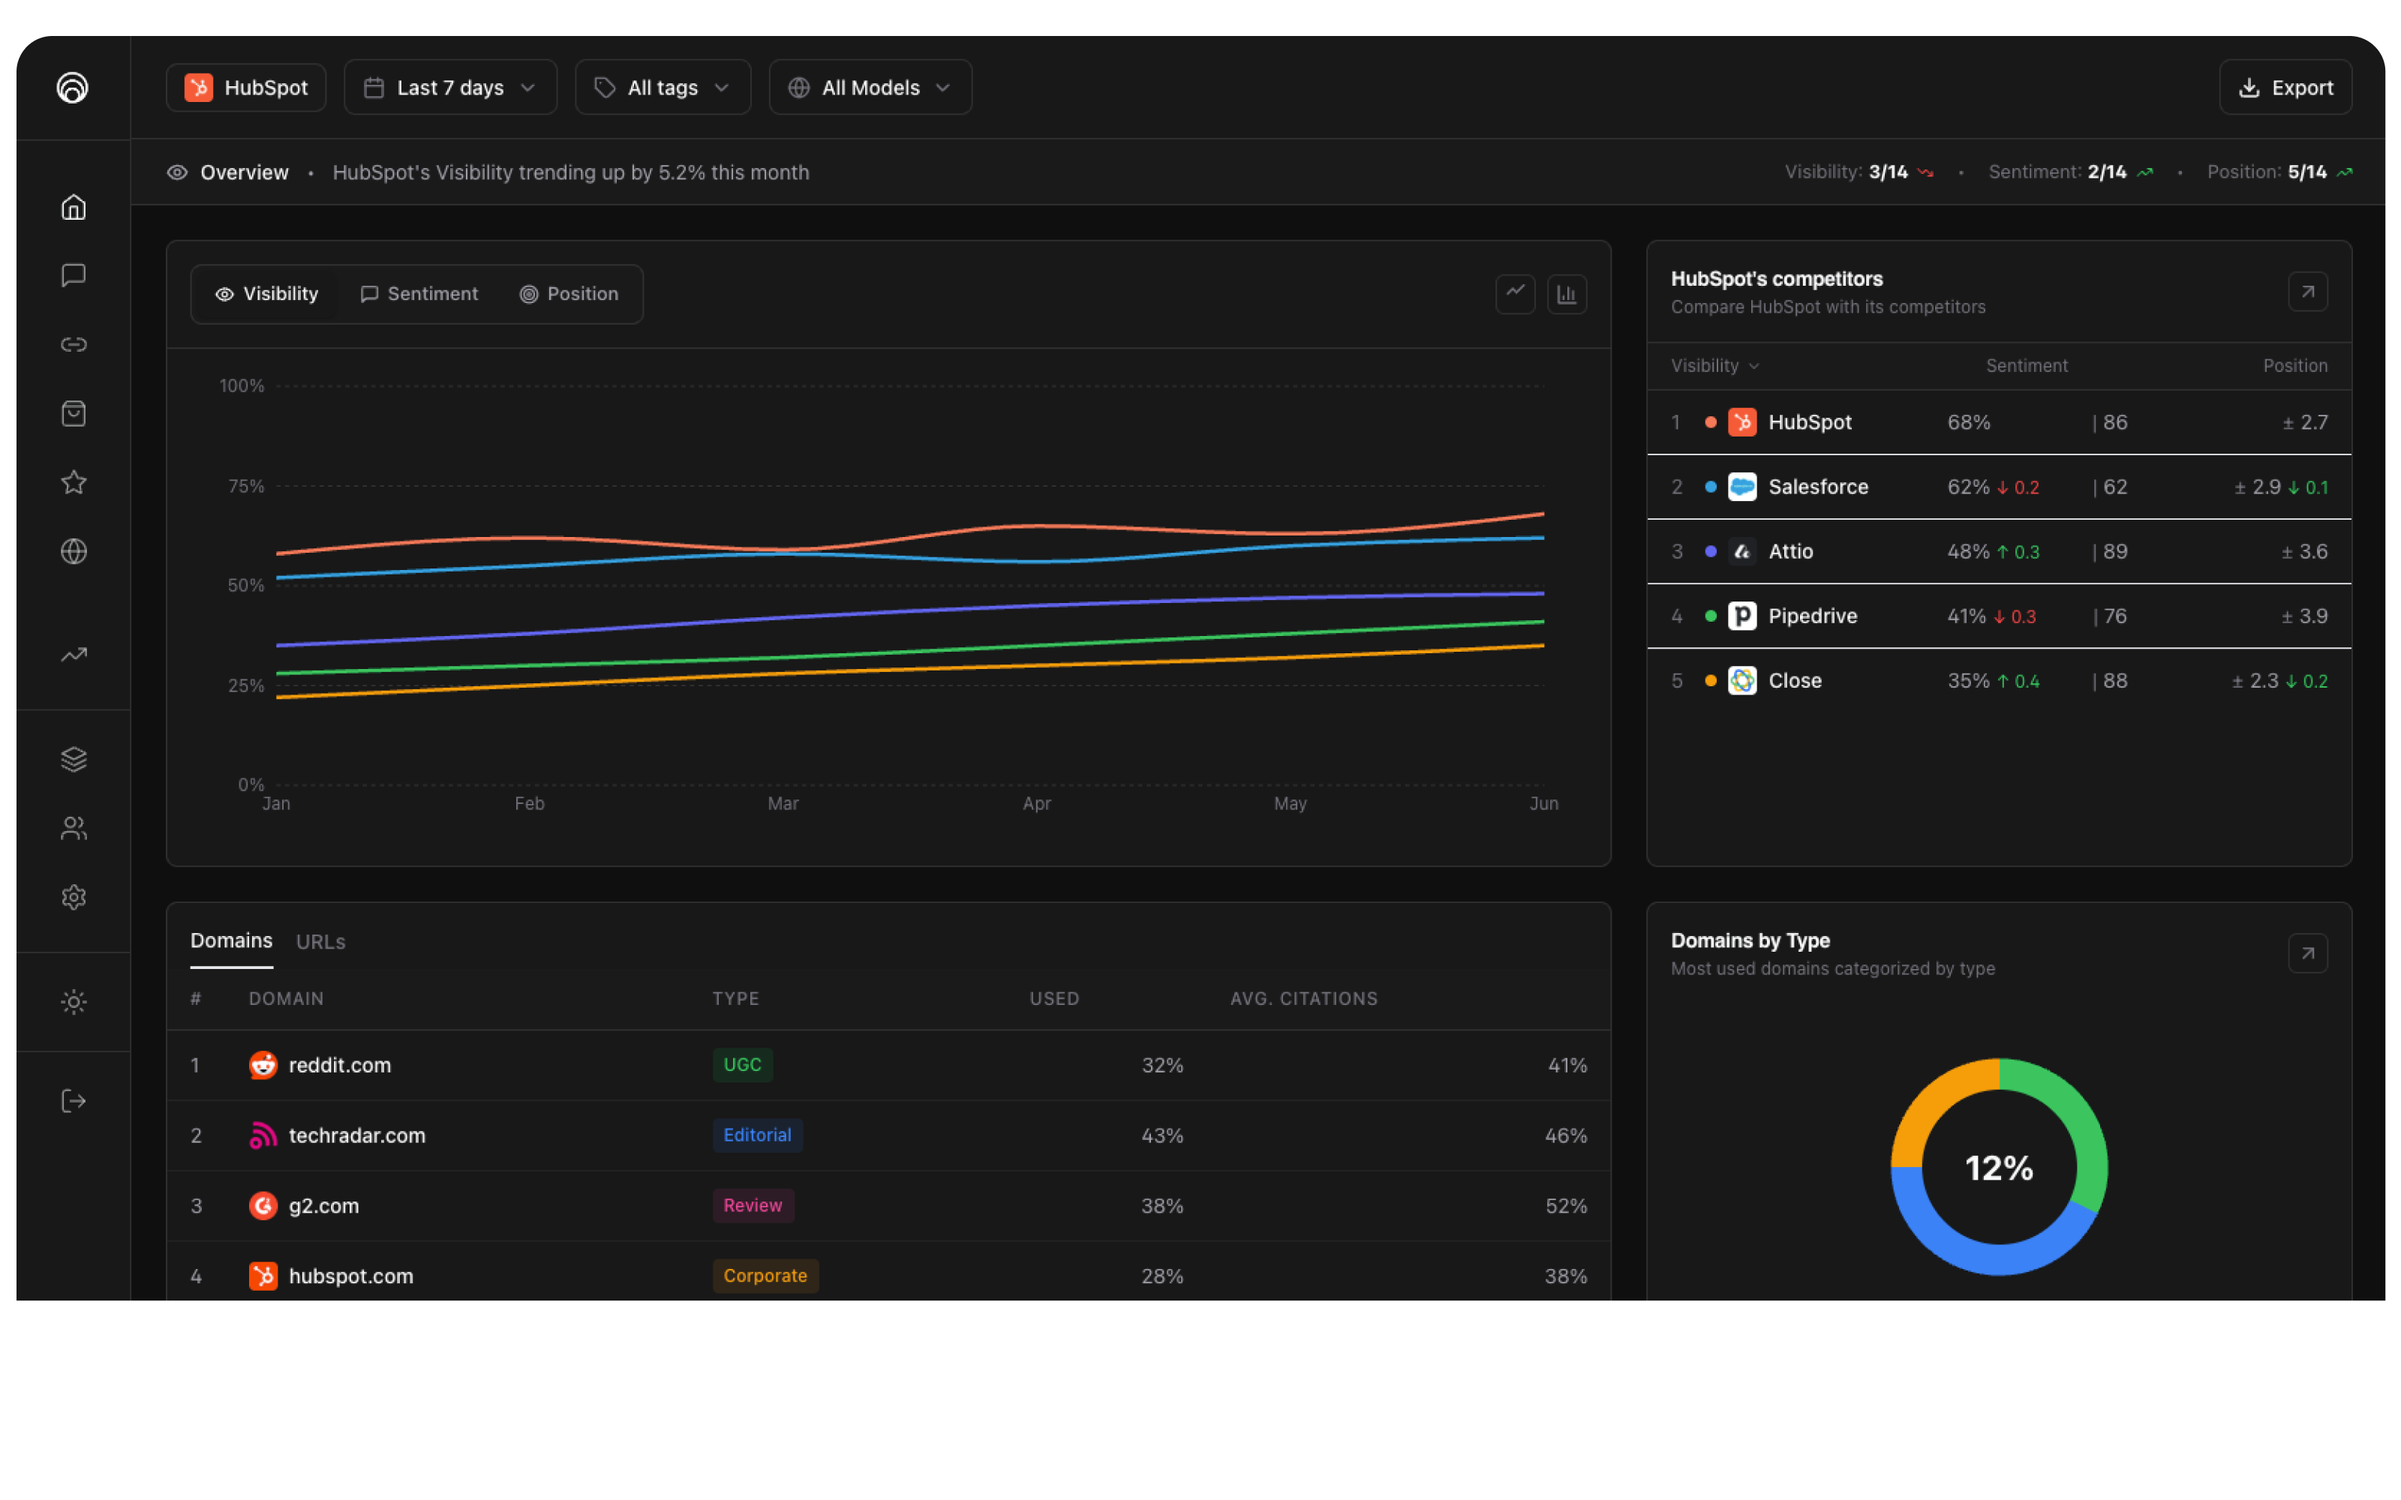
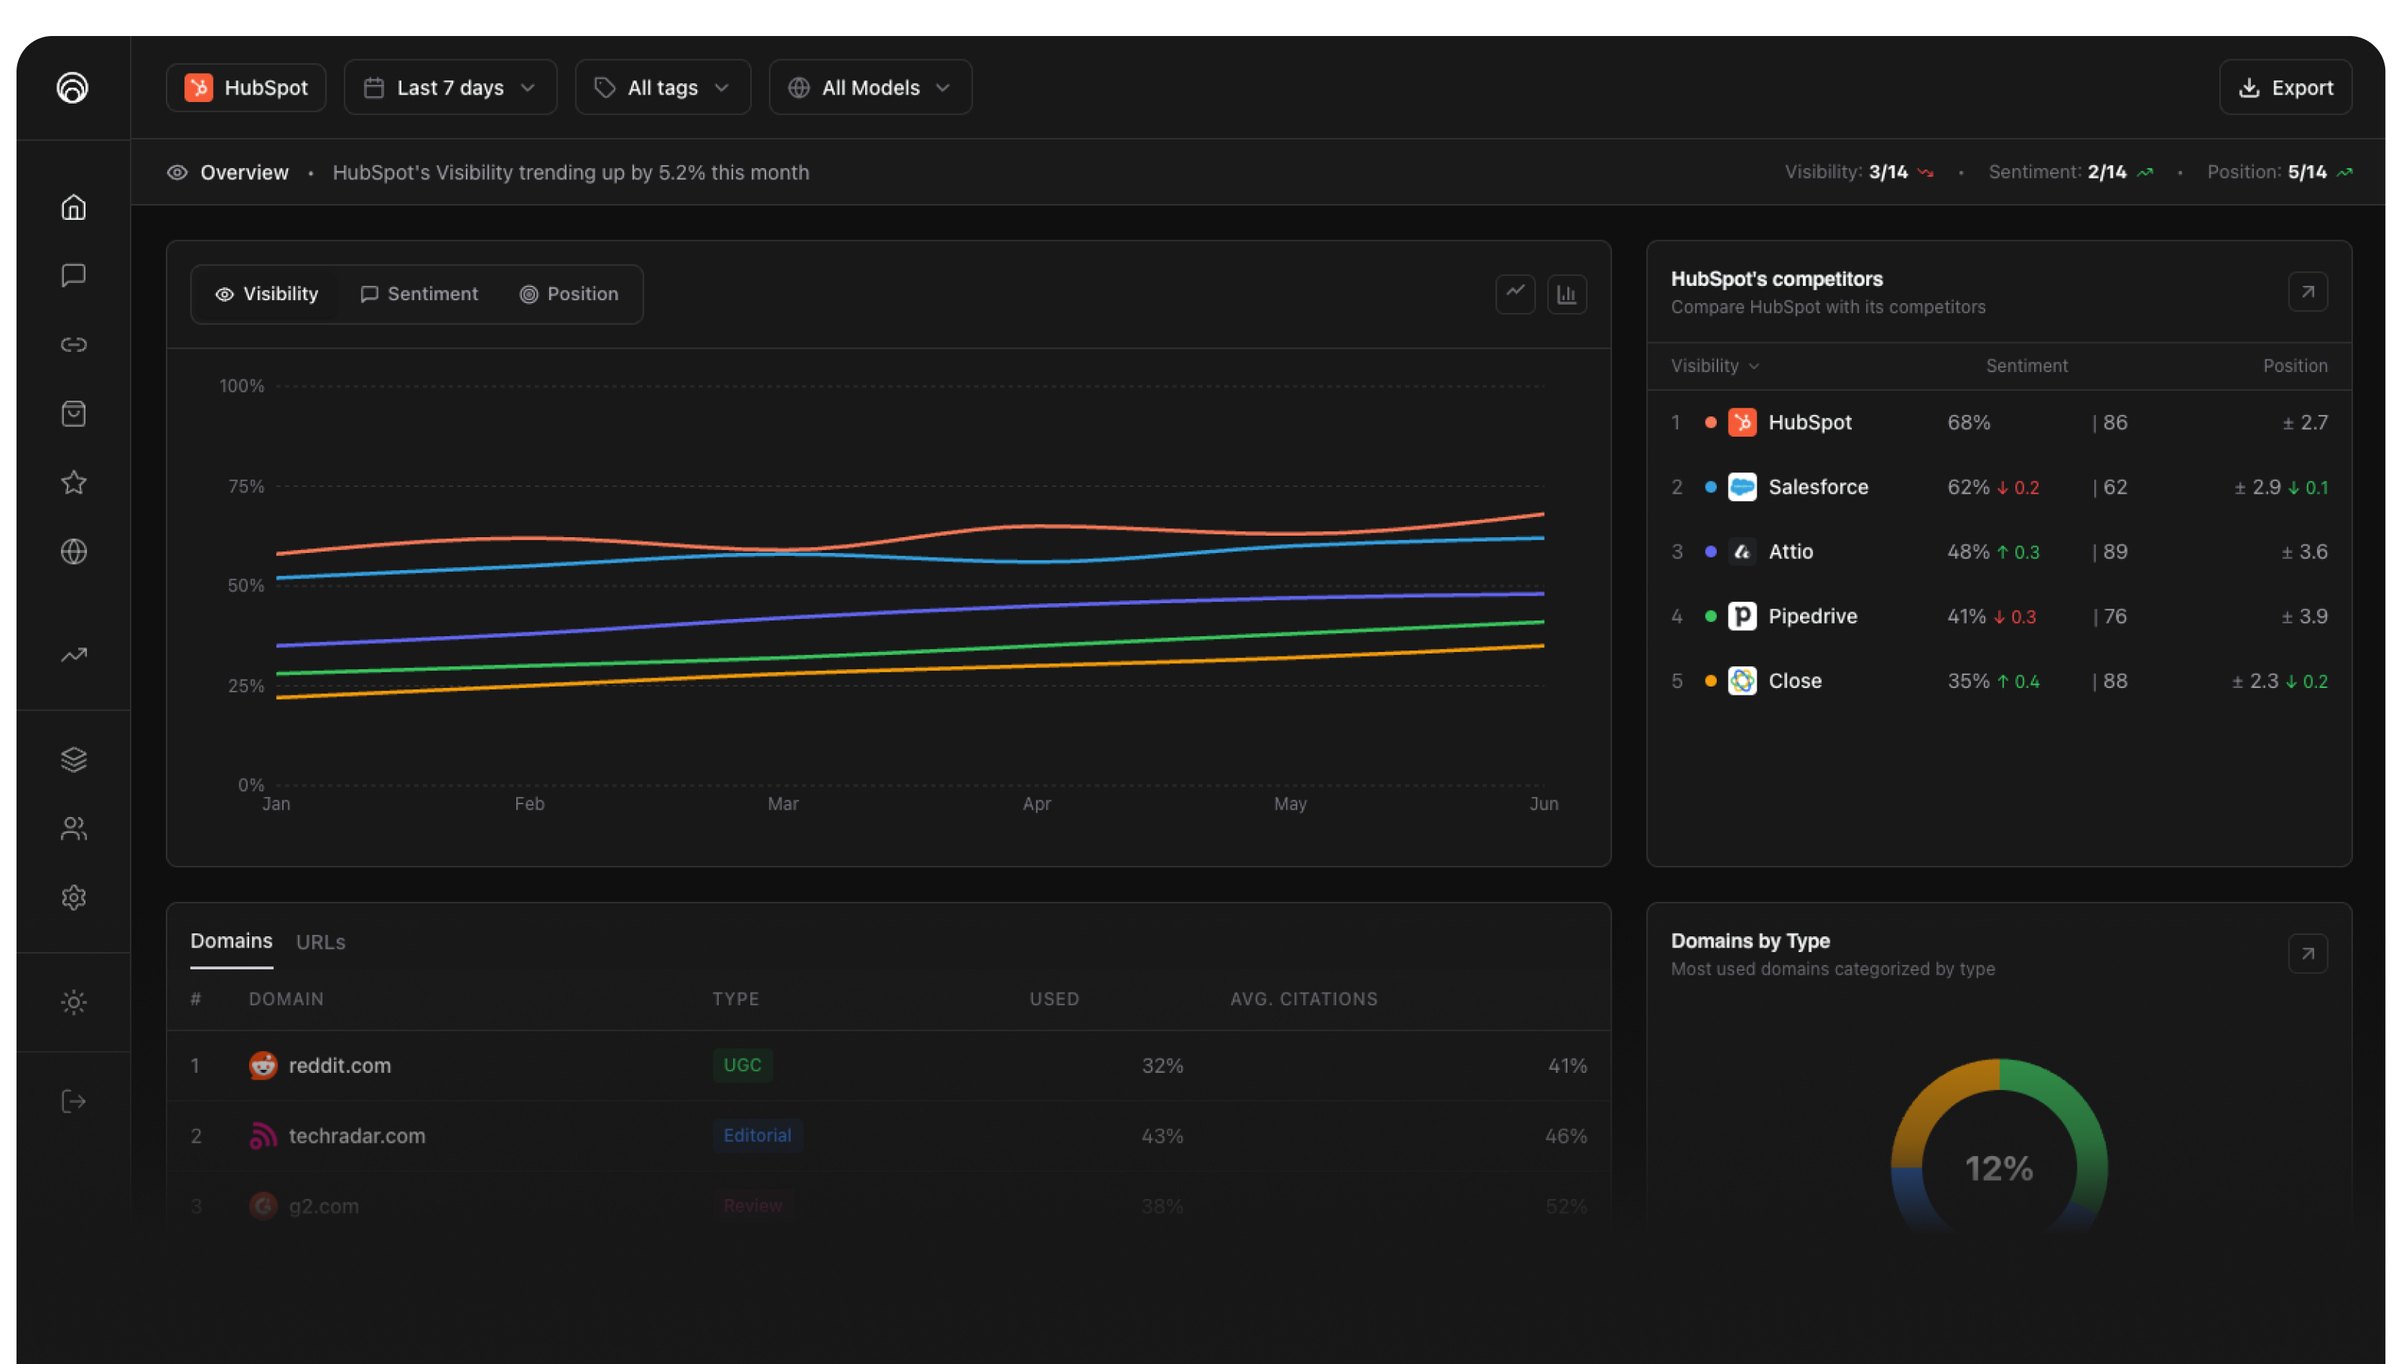
new hero

diff --git a/apps/web/components/landing-new/HeroSection.tsx b/apps/web/components/landing-new/HeroSection.tsx
@@ -90,24 +90,27 @@ export default function HeroSection() {
         </div>
       </div>
 
-      {/* Dashboard Screenshot - Full width, flush, with fade */}
-      <div className="relative w-full">
-        {/* Glow behind screenshot */}
-        <div className="absolute inset-0 bg-gradient-to-t from-cyan-500/20 via-blue-500/10 to-transparent blur-3xl opacity-40 pointer-events-none" />
-        
-        {/* Screenshot - no container, just the image */}
+      {/* Dashboard Screenshot - Contained width with strong fade */}
+      <div className="relative w-full max-w-6xl mx-auto px-6">
+        {/* Screenshot */}
         <div className="relative">
           <Image
             src="/images/dashboard-hero.png"
             alt="Harbor Dashboard"
             width={1600}
             height={1000}
-            className="w-full h-auto"
+            className="w-full h-auto rounded-xl border border-white/10"
             priority
           />
           
-          {/* Fade to black at bottom */}
-          <div className="absolute bottom-0 left-0 right-0 h-64 bg-gradient-to-t from-[#0a0a0a] via-[#0a0a0a]/90 to-transparent pointer-events-none" />
+          {/* Fade overlay - starts 1/3 from bottom, completely hides bottom */}
+          <div 
+            className="absolute inset-x-0 bottom-0 pointer-events-none"
+            style={{
+              height: '50%',
+              background: 'linear-gradient(to top, #0a0a0a 0%, #0a0a0a 30%, transparent 100%)'
+            }}
+          />
         </div>
       </div>
 
